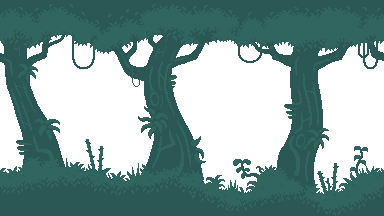
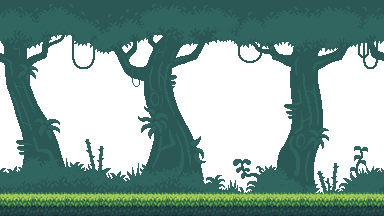
SHIZZLE MANIZZLE

Changed region(s): [[0.0, 0.8889, 1.0, 1.0]]

diff --git a/_JS/GAME.js b/_JS/GAME.js
@@ -1,5 +1,6 @@
 var windowHeight = 700;
 var windowWidth = 1000;
+var jumps = 0;
 
 var game = new Phaser.Game(windowWidth, windowHeight, Phaser.AUTO, 'myPhaserID', {
     preload: preload,
@@ -18,6 +19,8 @@ function preload() {
 
     //loading the players spritesheet
     game.load.spritesheet('dude', '../_RES/dude.png', 32, 48);
+
+    game.load.image('ground', '../_RES/ground/ground.png');
 
 
 }
@@ -47,6 +50,18 @@ function create() {
     this.wallGroup.add(this.wall4);
     //--------------------------------------------------------------
 
+
+    //Init ground layer
+    platforms = game.add.group();
+    platforms.enableBody = true;
+
+    var ground = platforms.create(0, game.world.height - 82, 'ground');
+
+    ground.scale.setTo(3, 2);
+
+    ground.body.immovable = true;
+    ground.alpha = 0
+
     //Init character
     playerChar = game.add.sprite(300, game.world.height - 150, 'dude');
 
@@ -66,33 +81,70 @@ function create() {
 }
 
 function update() {
-    this.wall1.tilePosition.x -= 0.25;
-    this.wall2.tilePosition.x -= 0.5;
-    this.wall3.tilePosition.x -= 1;
-    this.wall4.tilePosition.x -= 2;
+    game.physics.arcade.collide(playerChar, platforms);
+
 
     //Handle playerChar movement!
     //cancel velocity
     playerChar.body.velocity.x = 0;
 
-
-
-
-
-
-    //  Allow the player to jump if they are touching the ground.
-    if (cursors.up.isDown)
-    {
-        playerChar.body.velocity.y = -350;
-    } else {
+    if (cursors.left.isDown) {
+        //kek
+    }
+    else if (cursors.right.isDown) {
+        playerChar.animations.play('right');
+        moveWorld(this);
+    }
+    else {
+        //  Stand still
         playerChar.animations.stop();
 
         playerChar.frame = 4;
     }
 
 
+    //  Allow the player to jump if they are touching the ground.
+    if (cursors.up.isDown && (playerChar.body.touching.down || checkJump())) {
+        jump(this);
+        jumps++;
+    }
+
+    if (playerChar.body.touching.down) {
+        jumps = 0;
+    }
 
 }
+
+
+function jump(game) {
+    playerChar.body.velocity.y = -350;
+
+    console.log("jumping");
+}
+
+function checkJump() {
+    if (jumps < 10) {
+        console.log("true");
+        return true;
+
+    } else {
+        console.log("false");
+        return false;
+    }
+}
+
+
+function moveWorld(game) {
+    game.wall1.tilePosition.x -= 0.25;
+    game.wall2.tilePosition.x -= 0.5;
+    game.wall3.tilePosition.x -= 1;
+    game.wall4.tilePosition.x -= 2;
+
+}
+
+
+
+
 
 
 
